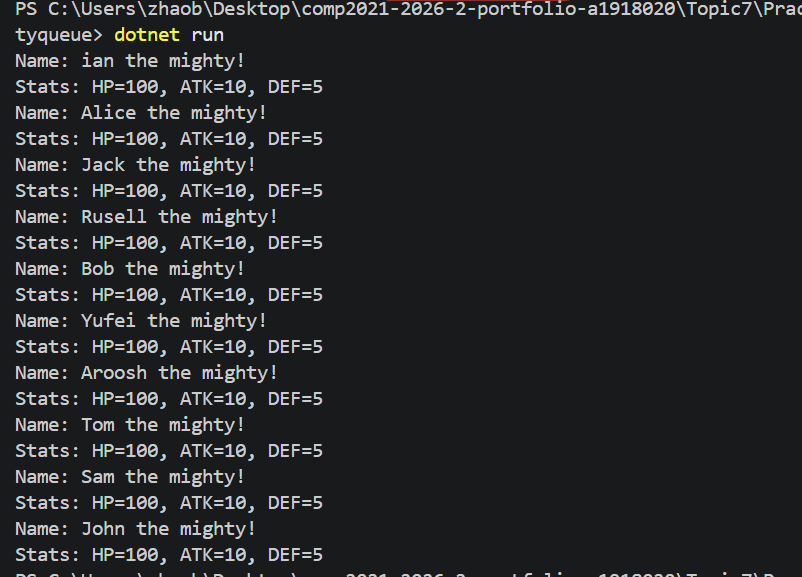
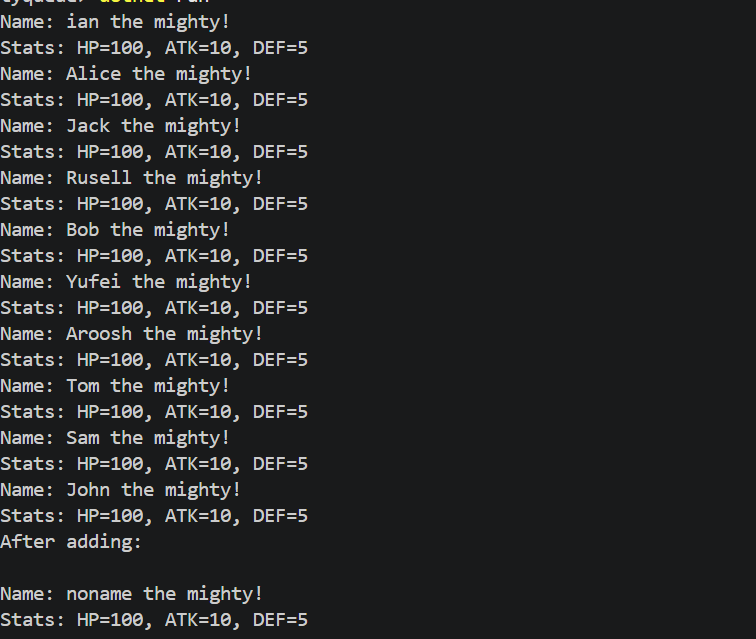
feat: Task4, Reflection and save Topic7 files

diff --git a/Topic7/PracB/PriorityQueue/Program.cs b/Topic7/PracB/PriorityQueue/Program.cs
@@ -26,5 +26,55 @@ while(EventQueue.Count != 0)
     Console.WriteLine(EventQueue.Dequeue());
 }
 
+Console.WriteLine("After adding: ");
+Console.WriteLine("");
+
 Player player11 = new Player("noname", 100, 10, 5);
 EventQueue.Enqueue(player11, 11);
+
+while(EventQueue.Count != 0)
+{
+    Console.WriteLine(EventQueue.Dequeue());
+}
+
+Console.WriteLine("");
+Console.WriteLine("");
+
+var EventQueue2 = new PriorityQueue<Player, Priority>();
+Priority priorityPlayer1 = Priority.HighPriority;
+Priority priorityPlayer2 = Priority.MediumPriority;
+Priority priorityPlayer3 = Priority.LowPriority;
+Priority priorityPlayer4 = Priority.LowPriority;
+Priority priorityPlayer5 = Priority.MediumPriority;
+Priority priorityPlayer6 = Priority.LowPriority;
+Priority priorityPlayer7 = Priority.HighPriority;
+Priority priorityPlayer8 = Priority.HighPriority;
+Priority priorityPlayer9 = Priority.MediumPriority;
+Priority priorityPlayer10 = Priority.MediumPriority;
+
+EventQueue2.Enqueue(player1, priorityPlayer1);
+EventQueue2.Enqueue(player2, priorityPlayer2);
+EventQueue2.Enqueue(player3, priorityPlayer3);
+EventQueue2.Enqueue(player4, priorityPlayer4);
+EventQueue2.Enqueue(player5, priorityPlayer5);
+EventQueue2.Enqueue(player6, priorityPlayer6);
+EventQueue2.Enqueue(player7, priorityPlayer7);
+EventQueue2.Enqueue(player8, priorityPlayer8);
+EventQueue2.Enqueue(player9, priorityPlayer9);
+EventQueue2.Enqueue(player10, priorityPlayer10);
+
+while(EventQueue2.Count != 0)
+{
+    Console.WriteLine(EventQueue2.Dequeue());
+}
+
+Console.WriteLine("After adding: ");
+Console.WriteLine("");
+
+Priority priorityPlayer11 =Priority.HighPriority;
+EventQueue2.Enqueue(player11, priorityPlayer11);
+
+while(EventQueue2.Count != 0)
+{
+    Console.WriteLine(EventQueue2.Dequeue());
+}

diff --git a/Topic7/PracB/PriorityQueue/Priority.cs b/Topic7/PracB/PriorityQueue/Priority.cs
@@ -1,0 +1,6 @@
+public enum Priority
+{
+    HighPriority,
+    MediumPriority,
+    LowPriority,
+}
